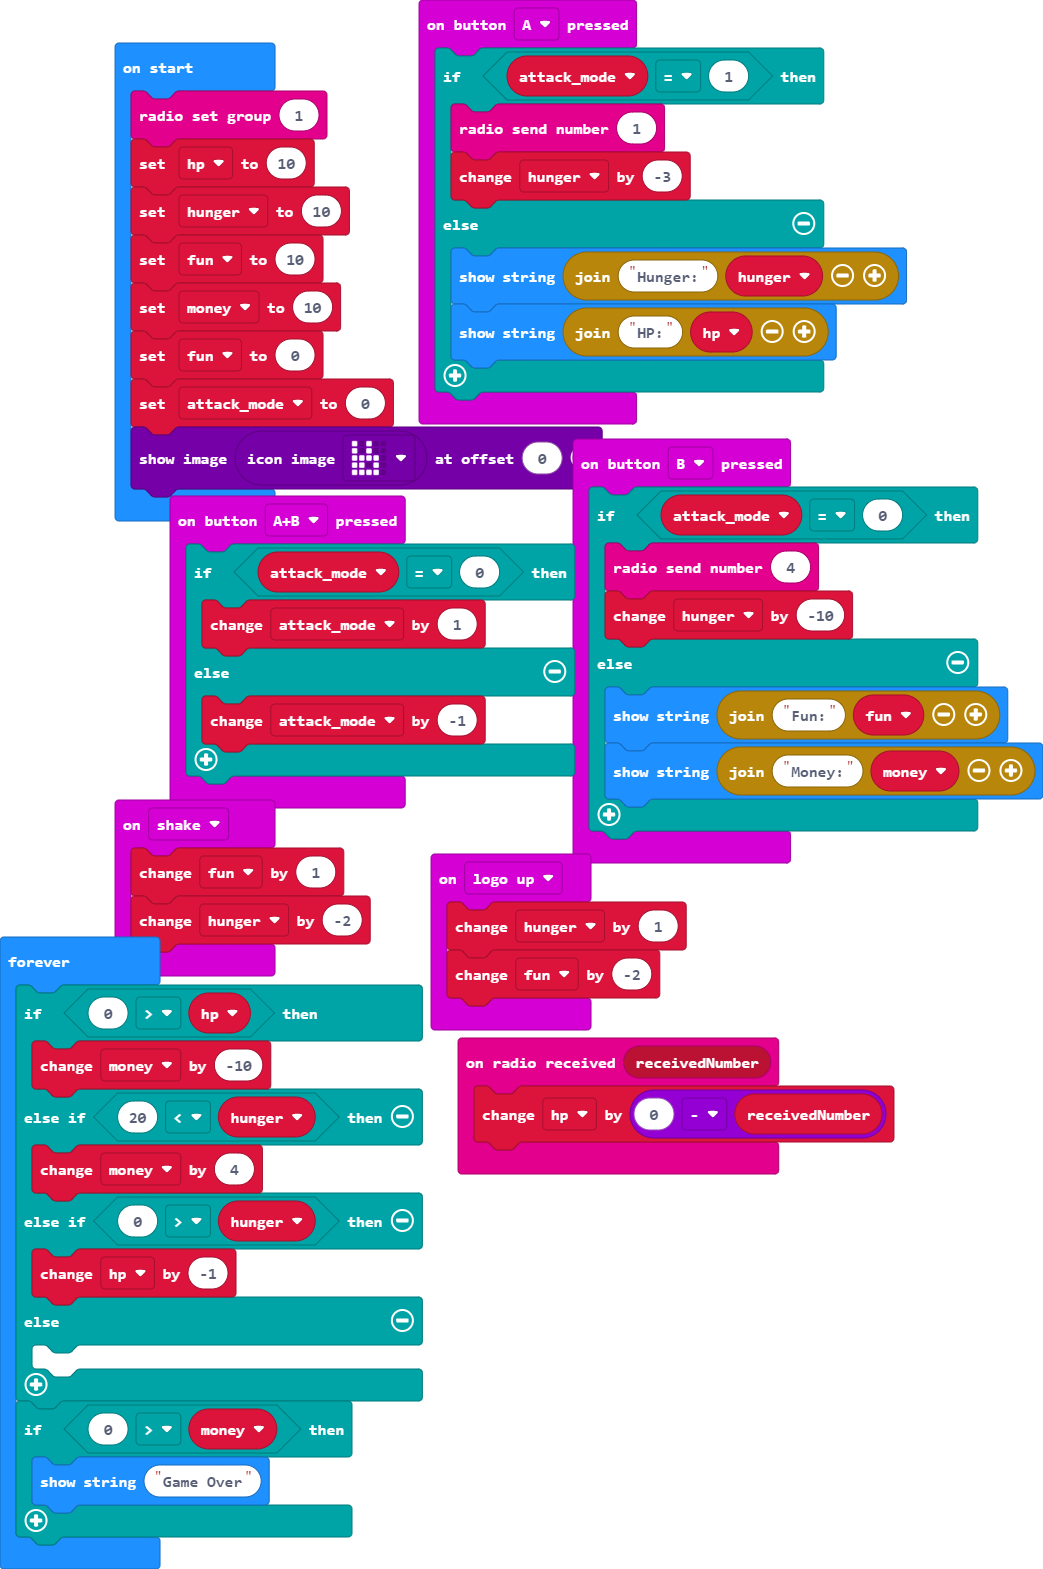
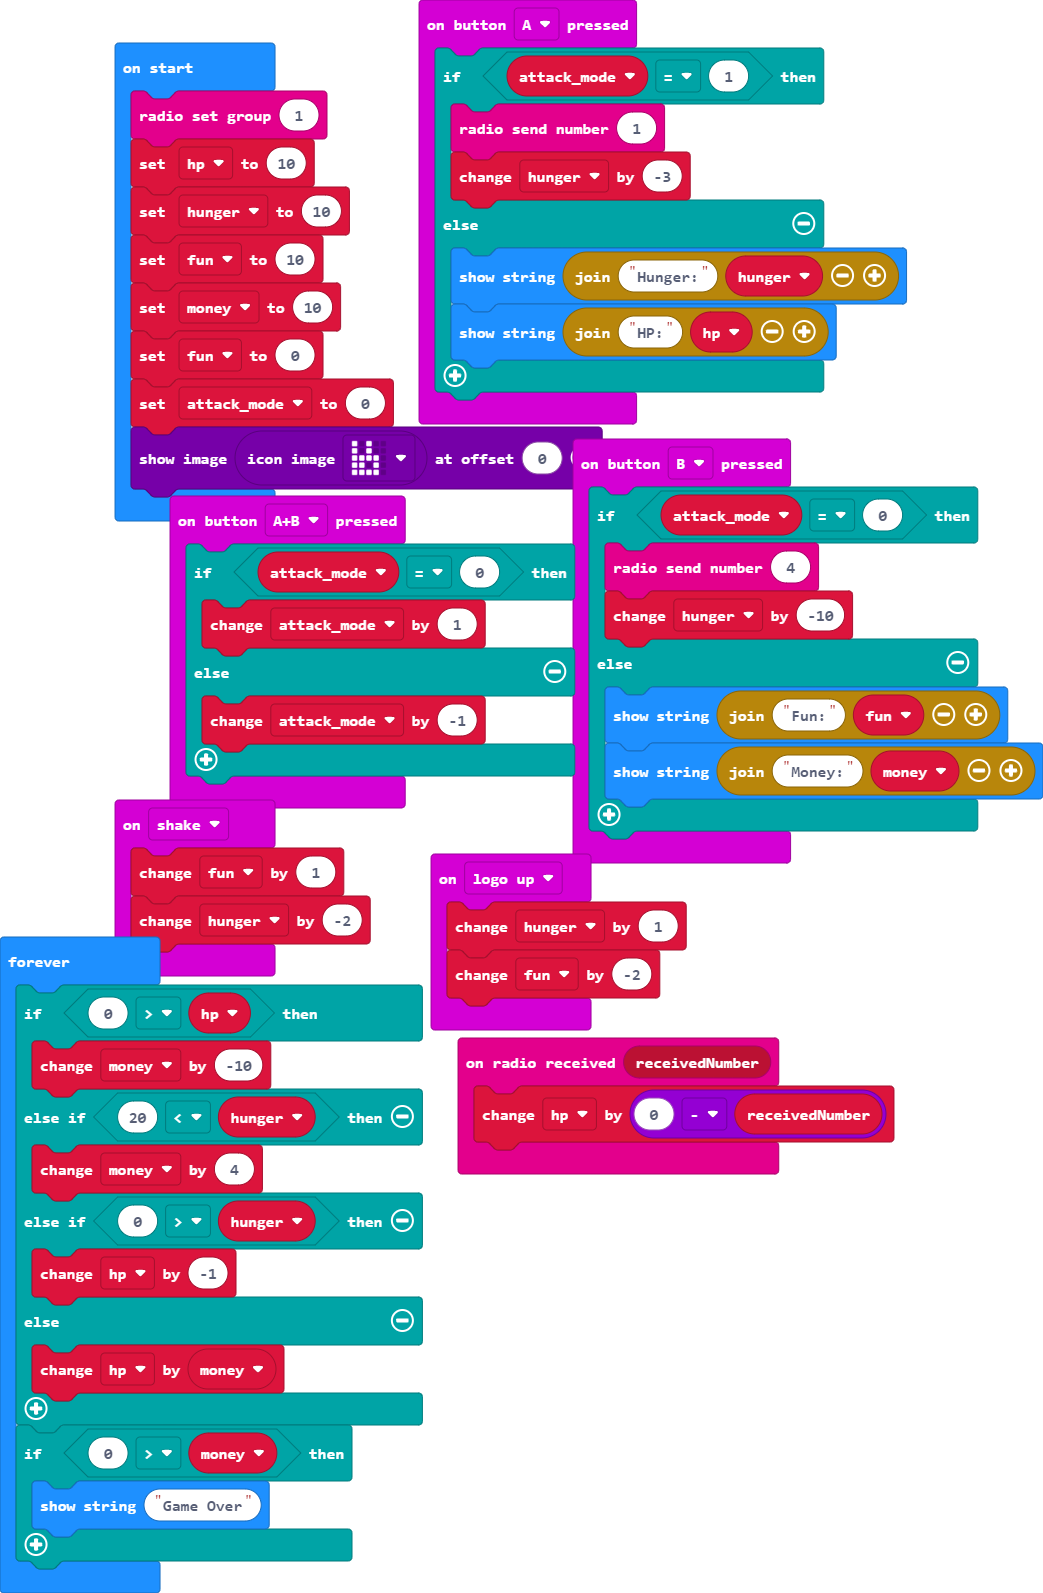
Update main.blocks, main.ts

Changed region(s): [[0.0, 0.0, 1.0, 0.9681], [0.675, 0.0312, 0.7057, 0.0625]]

diff --git a/main.ts b/main.ts
@@ -55,7 +55,7 @@ basic.forever(function () {
     } else if (0 > hunger) {
         hp += -1
     } else {
-    	
+        hp += money
     }
     if (0 > money) {
         basic.showString("Game Over")
